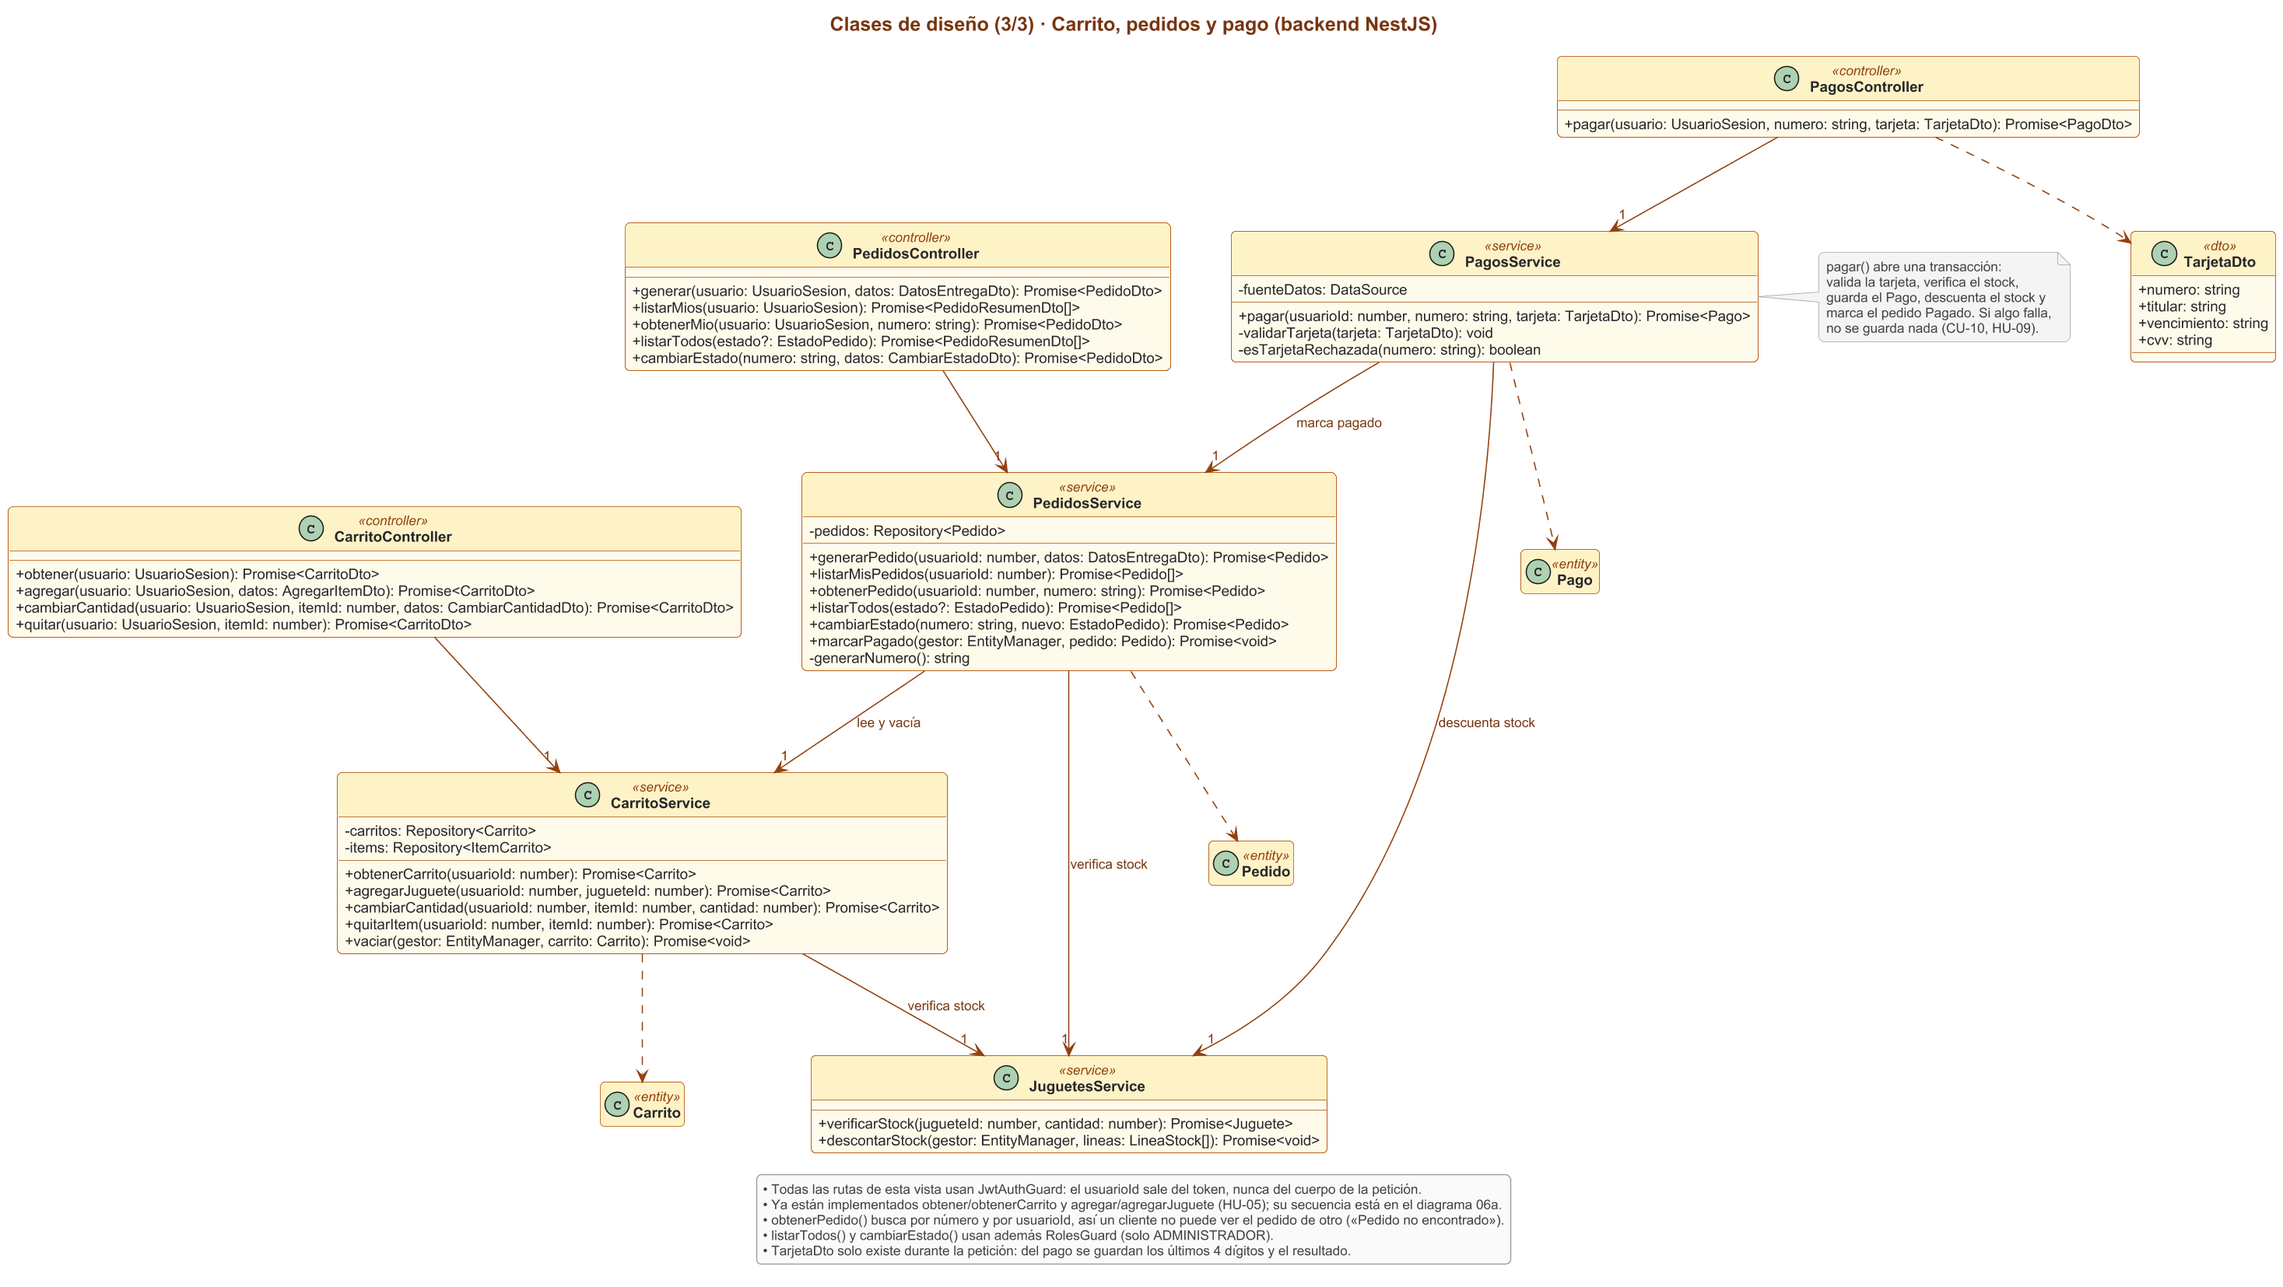
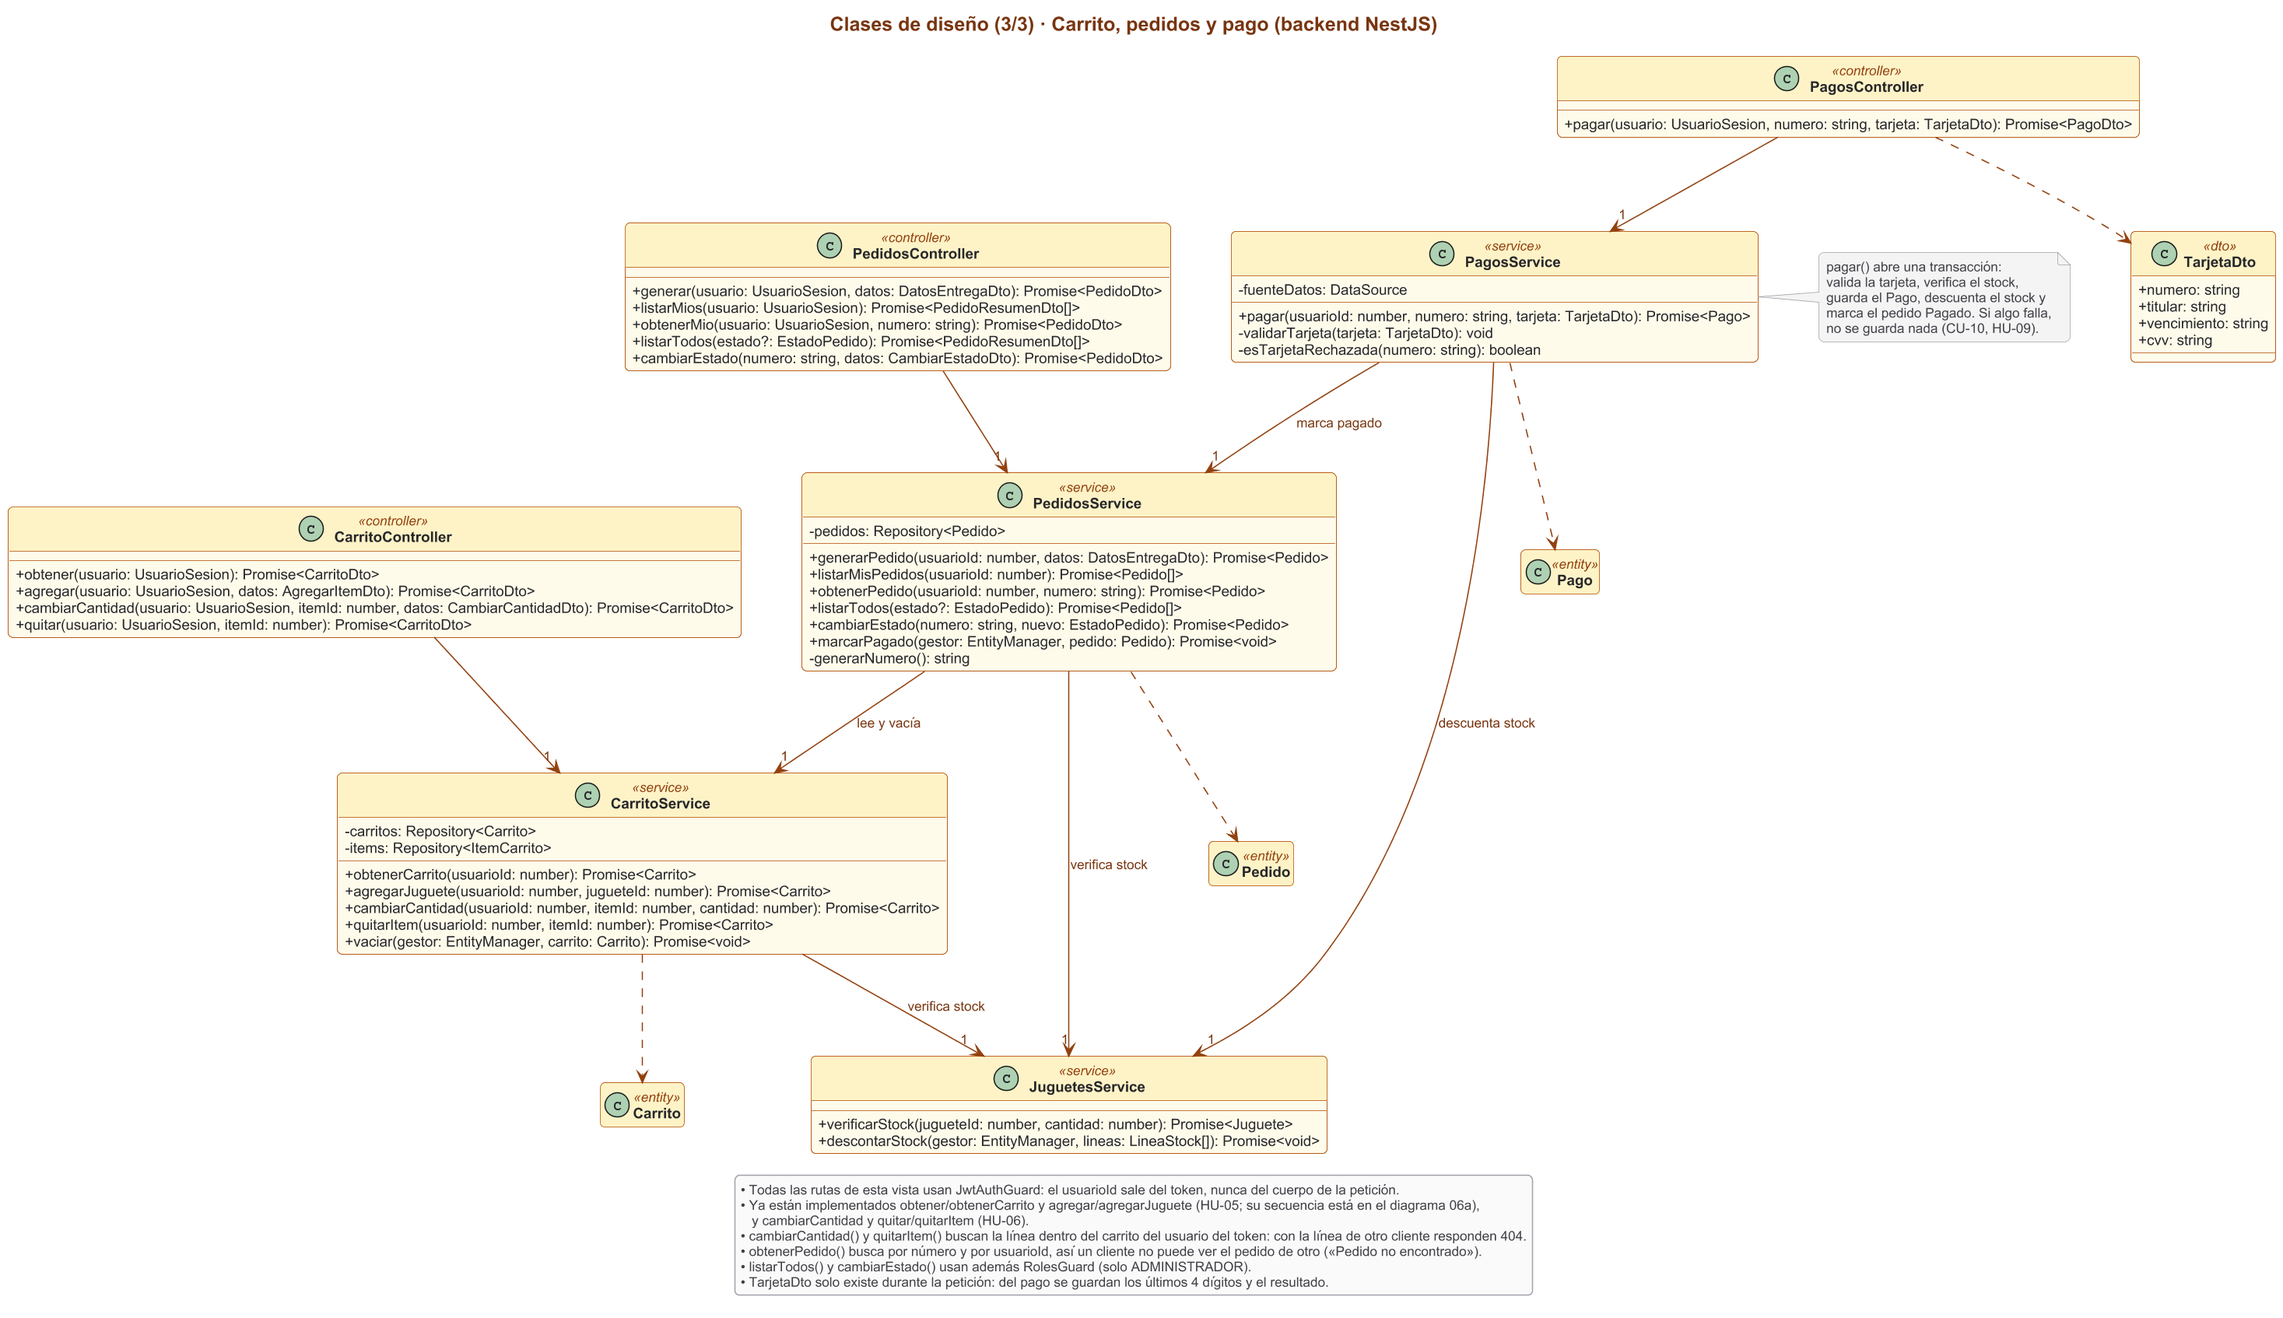
ETF-13 agrega cambiar la cantidad y quitar juguetes del carrito en la API
- PATCH /carrito/items/:itemId guarda la nueva cantidad: 400 si no es un
  entero de 1 o más y 409 «Solo quedan N unidades» si supera el stock
  (lo verifica JuguetesService.verificarStock, IInventario).
- DELETE /carrito/items/:itemId quita la línea y devuelve el carrito.
- La línea se busca dentro del carrito del usuario del token: la de otro
  cliente responde 404 «Este juguete ya no está en tu carrito».
- Diagramas 04c y 05b y README de UML con las operaciones implementadas.

diff --git a/backend/src/carrito/carrito.service.spec.ts b/backend/src/carrito/carrito.service.spec.ts
@@ -1,4 +1,4 @@
-import { ConflictException } from '@nestjs/common';
+import { ConflictException, NotFoundException } from '@nestjs/common';
 import { Test, type TestingModule } from '@nestjs/testing';
 import { getRepositoryToken } from '@nestjs/typeorm';
 import type { Juguete } from '../juguetes/entities/juguete.entity.js';
@@ -64,7 +64,7 @@ describe('CarritoService', () => {
     findOneOrFail: vi.fn(),
     insert: vi.fn(),
   };
-  const items = { insert: vi.fn(), update: vi.fn() };
+  const items = { insert: vi.fn(), update: vi.fn(), delete: vi.fn() };
   const juguetesService = { verificarStock: vi.fn() };
 
   beforeEach(async () => {
@@ -94,6 +94,10 @@ describe('CarritoService', () => {
           return Promise.resolve();
         },
       );
+    items.delete.mockReset().mockImplementation((donde: { id: number }) => {
+      bd.lineas = bd.lineas.filter((linea) => linea.id !== donde.id);
+      return Promise.resolve();
+    });
     juguetesService.verificarStock.mockReset().mockResolvedValue({});
 
     const modulo: TestingModule = await Test.createTestingModule({
@@ -192,6 +196,89 @@ describe('CarritoService', () => {
     const carrito = await servicio.obtenerCarrito(CLIENTE);
 
     expect(carrito.id).toBe(3);
+  });
+
+  describe('cambiarCantidad (HU-06)', () => {
+    beforeEach(() => {
+      bd.crearCarrito();
+      bd.agregarLinea(ABACO.id, 2); // línea 100
+      bd.agregarLinea(AJEDREZ.id, 1); // línea 101
+    });
+
+    it('guarda la nueva cantidad después de verificar el stock', async () => {
+      const carrito = await servicio.cambiarCantidad(CLIENTE, 100, 4);
+
+      expect(juguetesService.verificarStock).toHaveBeenCalledWith(ABACO.id, 4);
+      expect(items.update).toHaveBeenCalledWith({ id: 100 }, { cantidad: 4 });
+      expect(carrito.buscarItem(ABACO.id)?.cantidad).toBe(4);
+      expect(carrito.buscarItem(AJEDREZ.id)?.cantidad).toBe(1);
+    });
+
+    it('también guarda una cantidad menor', async () => {
+      const carrito = await servicio.cambiarCantidad(CLIENTE, 100, 1);
+
+      expect(carrito.buscarItem(ABACO.id)?.cantidad).toBe(1);
+    });
+
+    it('si la cantidad supera el stock, responde 409 y la línea no cambia', async () => {
+      juguetesService.verificarStock.mockRejectedValue(
+        new ConflictException({
+          statusCode: 409,
+          message: 'Solo quedan 2 unidades',
+          stock: 2,
+        }),
+      );
+
+      const intento = servicio.cambiarCantidad(CLIENTE, 101, 3);
+
+      await expect(intento).rejects.toThrow('Solo quedan 2 unidades');
+      expect(juguetesService.verificarStock).toHaveBeenCalledWith(
+        AJEDREZ.id,
+        3,
+      );
+      expect(items.update).not.toHaveBeenCalled();
+      expect(bd.lineas[1].cantidad).toBe(1);
+    });
+
+    it('si la línea no está en el carrito del cliente, responde 404 «Este juguete ya no está en tu carrito»', async () => {
+      const intento = servicio.cambiarCantidad(CLIENTE, 555, 2);
+
+      await expect(intento).rejects.toBeInstanceOf(NotFoundException);
+      await expect(intento).rejects.toThrow(
+        'Este juguete ya no está en tu carrito',
+      );
+      expect(juguetesService.verificarStock).not.toHaveBeenCalled();
+      expect(items.update).not.toHaveBeenCalled();
+    });
+  });
+
+  describe('quitarItem (HU-06)', () => {
+    beforeEach(() => {
+      bd.crearCarrito();
+      bd.agregarLinea(ABACO.id, 2); // línea 100
+      bd.agregarLinea(AJEDREZ.id, 1); // línea 101
+    });
+
+    it('quita la línea y devuelve el carrito sin ella', async () => {
+      const carrito = await servicio.quitarItem(CLIENTE, 100);
+
+      expect(items.delete).toHaveBeenCalledWith({ id: 100 });
+      expect(carrito.items.map((item) => item.jugueteId)).toEqual([AJEDREZ.id]);
+    });
+
+    it('al quitar la última línea, el carrito queda vacío', async () => {
+      await servicio.quitarItem(CLIENTE, 100);
+      const carrito = await servicio.quitarItem(CLIENTE, 101);
+
+      expect(carrito.items).toEqual([]);
+    });
+
+    it('si la línea ya no está (por ejemplo, otro clic la quitó), responde 404 y no borra nada', async () => {
+      await expect(servicio.quitarItem(CLIENTE, 555)).rejects.toBeInstanceOf(
+        NotFoundException,
+      );
+      expect(items.delete).not.toHaveBeenCalled();
+    });
   });
 
   it('no oculta los demás errores de la base de datos', async () => {

diff --git a/backend/src/carrito/carrito.service.ts b/backend/src/carrito/carrito.service.ts
@@ -1,4 +1,4 @@
-import { Injectable } from '@nestjs/common';
+import { Injectable, NotFoundException } from '@nestjs/common';
 import { InjectRepository } from '@nestjs/typeorm';
 import type { FindOneOptions, Repository } from 'typeorm';
 import { esViolacionUnica } from '../database/errores.js';
@@ -11,6 +11,8 @@ const CON_ITEMS: Omit<FindOneOptions<Carrito>, 'where'> = {
   relations: { items: { juguete: true } },
   order: { items: { id: 'ASC' } },
 };
+
+export const LINEA_NO_ENCONTRADA = 'Este juguete ya no está en tu carrito';
 
 @Injectable()
 export class CarritoService {
@@ -61,6 +63,47 @@ export class CarritoService {
       await this.items.insert({ carritoId: carrito.id, jugueteId, cantidad });
     }
     return this.obtenerCarrito(usuarioId);
+  }
+
+  /**
+   * Cambia la cantidad de una línea del carrito (HU-06). La cantidad ya llega validada
+   * (entero de 1 o más); aquí IInventario verifica que no supere el stock: si no alcanza,
+   * responde 409 «Solo quedan N unidades» y la línea no cambia.
+   */
+  async cambiarCantidad(
+    usuarioId: number,
+    itemId: number,
+    cantidad: number,
+  ): Promise<Carrito> {
+    const item = await this.buscarLinea(usuarioId, itemId);
+    await this.juguetesService.verificarStock(item.jugueteId, cantidad);
+    await this.items.update({ id: item.id }, { cantidad });
+    return this.obtenerCarrito(usuarioId);
+  }
+
+  /** Quita una línea del carrito (HU-06) y devuelve el carrito sin ella. */
+  async quitarItem(usuarioId: number, itemId: number): Promise<Carrito> {
+    const item = await this.buscarLinea(usuarioId, itemId);
+    await this.items.delete({ id: item.id });
+    return this.obtenerCarrito(usuarioId);
+  }
+
+  /**
+   * La línea se busca dentro del carrito del cliente del token: así nadie puede cambiar
+   * ni quitar una línea del carrito de otra persona. Si no está, responde 404.
+   */
+  private async buscarLinea(
+    usuarioId: number,
+    itemId: number,
+  ): Promise<ItemCarrito> {
+    const carrito = await this.obtenerCarrito(usuarioId);
+    const item = carrito.items.find((linea) => linea.id === itemId);
+    if (!item)
+      throw new NotFoundException({
+        statusCode: 404,
+        message: LINEA_NO_ENCONTRADA,
+      });
+    return item;
   }
 
   private buscar(usuarioId: number): Promise<Carrito | null> {

diff --git a/backend/src/carrito/carrito.controller.ts b/backend/src/carrito/carrito.controller.ts
@@ -1,9 +1,14 @@
 import {
   Body,
   Controller,
+  Delete,
   Get,
   HttpCode,
   HttpStatus,
+  NotFoundException,
+  Param,
+  ParseIntPipe,
+  Patch,
   Post,
   UseGuards,
 } from '@nestjs/common';
@@ -11,8 +16,15 @@ import { JwtAuthGuard } from '../auth/jwt-auth.guard.js';
 import type { UsuarioSesion } from '../auth/sesion.js';
 import { UsuarioActual } from '../auth/usuario-actual.decorator.js';
 import { aCarritoDto, type CarritoDto } from './carrito-dto.js';
-import { CarritoService } from './carrito.service.js';
+import { CarritoService, LINEA_NO_ENCONTRADA } from './carrito.service.js';
 import { AgregarItemDto } from './dto/agregar-item.dto.js';
+import { CambiarCantidadDto } from './dto/cambiar-cantidad.dto.js';
+
+/** Un id de línea que no es número tampoco puede estar en el carrito: 404, igual que uno que no existe. */
+const ID_DE_LINEA = new ParseIntPipe({
+  exceptionFactory: () =>
+    new NotFoundException({ statusCode: 404, message: LINEA_NO_ENCONTRADA }),
+});
 
 /**
  * Carrito del cliente con sesión iniciada. Todas las rutas usan JwtAuthGuard:
@@ -41,6 +53,37 @@ export class CarritoController {
   ): Promise<CarritoDto> {
     return aCarritoDto(
       await this.carritoService.agregarJuguete(usuario.id, datos.jugueteId),
+    );
+  }
+
+  /**
+   * Cambia la cantidad de una línea (HU-06). Responde 200 con el carrito actualizado,
+   * 400 si la cantidad no es un entero de 1 o más, 404 si la línea no está en el carrito
+   * del cliente y 409 «Solo quedan N unidades» si supera el stock.
+   */
+  @Patch('items/:itemId')
+  async cambiarCantidad(
+    @UsuarioActual() usuario: UsuarioSesion,
+    @Param('itemId', ID_DE_LINEA) itemId: number,
+    @Body() datos: CambiarCantidadDto,
+  ): Promise<CarritoDto> {
+    return aCarritoDto(
+      await this.carritoService.cambiarCantidad(
+        usuario.id,
+        itemId,
+        datos.cantidad,
+      ),
+    );
+  }
+
+  /** Quita una línea (HU-06). Responde 200 con el carrito sin ella, o 404 si no estaba. */
+  @Delete('items/:itemId')
+  async quitar(
+    @UsuarioActual() usuario: UsuarioSesion,
+    @Param('itemId', ID_DE_LINEA) itemId: number,
+  ): Promise<CarritoDto> {
+    return aCarritoDto(
+      await this.carritoService.quitarItem(usuario.id, itemId),
     );
   }
 }

diff --git a/backend/src/carrito/dto/cambiar-cantidad.dto.spec.ts b/backend/src/carrito/dto/cambiar-cantidad.dto.spec.ts
@@ -1,0 +1,41 @@
+import { BadRequestException } from '@nestjs/common';
+import { crearPipeValidacion } from '../../config/pipe-validacion.js';
+import { CambiarCantidadDto } from './cambiar-cantidad.dto.js';
+
+/** Pasa el cuerpo por el mismo pipe de validación que usa la API. */
+async function validar(cuerpo: unknown): Promise<CambiarCantidadDto> {
+  return (await crearPipeValidacion().transform(cuerpo, {
+    type: 'body',
+    metatype: CambiarCantidadDto,
+  })) as CambiarCantidadDto;
+}
+
+describe('CambiarCantidadDto', () => {
+  it('acepta una cantidad entera y descarta los demás campos', async () => {
+    await expect(
+      validar({ cantidad: 3, jugueteId: 99, precio: 0.1 }),
+    ).resolves.toEqual({ cantidad: 3 });
+  });
+
+  it.each([
+    ['sin cantidad', {}],
+    ['con un texto', { cantidad: 'tres' }],
+    ['con un decimal', { cantidad: 1.5 }],
+    ['con cero', { cantidad: 0 }],
+    ['con un número negativo', { cantidad: -2 }],
+  ])(
+    'responde 400 «La cantidad debe ser un número entero de 1 o más» %s',
+    async (_caso, cuerpo) => {
+      const intento = validar(cuerpo);
+
+      await expect(intento).rejects.toBeInstanceOf(BadRequestException);
+      await expect(intento).rejects.toMatchObject({
+        response: {
+          errores: {
+            cantidad: 'La cantidad debe ser un número entero de 1 o más',
+          },
+        },
+      });
+    },
+  );
+});

diff --git a/backend/src/carrito/dto/cambiar-cantidad.dto.ts b/backend/src/carrito/dto/cambiar-cantidad.dto.ts
@@ -1,0 +1,13 @@
+import { IsInt, Min } from 'class-validator';
+
+const CANTIDAD_VALIDA = 'La cantidad debe ser un número entero de 1 o más';
+
+/**
+ * Cuerpo de PATCH /carrito/items/:itemId (HU-06, CU-08 Gestionar carrito).
+ * Aquí solo se valida el mínimo: el máximo es el stock, y lo verifica IInventario.
+ */
+export class CambiarCantidadDto {
+  @IsInt({ message: CANTIDAD_VALIDA })
+  @Min(1, { message: CANTIDAD_VALIDA })
+  cantidad: number;
+}

diff --git a/docs/uml/README.md b/docs/uml/README.md
@@ -60,7 +60,7 @@ Se dividen en tres vistas para que cada una se lea bien. **B** = frontera (panta
 |---|---|---|---|---|
 | Catálogo | CU-01, CU-02, CU-03 | ControlCatalogo | `backend/src/juguetes` (hecho), `categorias` | `/`, `/juguetes/[id]` (hechas) |
 | Usuarios | CU-04, CU-05, CU-06 | ControlCuentas | `backend/src/usuarios`, `auth` (registro, inicio de sesión y `JwtAuthGuard` hechos) | `/registro`, `/iniciar-sesion` (hechas) |
-| Carrito | CU-07, CU-08 | ControlCarrito | `backend/src/carrito` (agregar hecho) | botón «Agregar al carrito» y contador (hechos), `/carrito` |
+| Carrito | CU-07, CU-08 | ControlCarrito | `backend/src/carrito` (agregar, cambiar cantidad y quitar hechos) | botón «Agregar al carrito», contador y `/carrito` (hechos) |
 | Pedidos | CU-09, CU-11 | ControlPedidos | `backend/src/pedidos` | `/checkout`, `/mis-pedidos` |
 | Pagos | CU-10 | ControlPago | `backend/src/pagos` | `/pago/[numero]` |
 | Administración | CU-12 … CU-15 | ControlAdminCatalogo, ControlAdminPedidos | rutas protegidas para el rol ADMINISTRADOR en `juguetes`, `categorias` y `pedidos` | `/admin/...` |
@@ -79,7 +79,7 @@ Tres vistas: el modelo de dominio (entidades de TypeORM) y los controllers y ser
 - **Controller + service.** Cada módulo de NestJS tiene un controller, que expone las rutas HTTP, y un service, que aplica las reglas del negocio usando el `Repository` de TypeORM.
 - **Seguridad.** `JwtAuthGuard` identifica al usuario a partir del JWT, y `RolesGuard` deja pasar solo al rol ADMINISTRADOR. El `usuarioId` siempre sale del token, nunca del cuerpo de la petición.
 - **Pago en una transacción.** `PagosService.pagar()` valida la tarjeta, verifica el stock, guarda el `Pago`, descuenta el stock y marca el pedido como Pagado en una sola transacción.
-- **Ya implementado.** `JuguetesController` y `JuguetesService` con `listarCatalogo` y `obtenerDetalle` (HU-01, HU-02); `AuthController`, `AuthService` y `UsuariosService` con `registrar` (HU-03) e `iniciarSesion` (HU-04); `JwtAuthGuard`, `AuthService.verificarToken`, `JuguetesService.verificarStock` y `CarritoController`/`CarritoService` con `obtener` y `agregar` (HU-05). El resto de nombres guía las próximas historias.
+- **Ya implementado.** `JuguetesController` y `JuguetesService` con `listarCatalogo` y `obtenerDetalle` (HU-01, HU-02); `AuthController`, `AuthService` y `UsuariosService` con `registrar` (HU-03) e `iniciarSesion` (HU-04); `JwtAuthGuard`, `AuthService.verificarToken`, `JuguetesService.verificarStock` y `CarritoController`/`CarritoService` con `obtener` y `agregar` (HU-05), y con `cambiarCantidad` y `quitar`/`quitarItem` (HU-06). El resto de nombres guía las próximas historias.
 - **El hash no sale de la base de datos.** La columna `contrasena_hash` tiene `select: false`: solo `UsuariosService.buscarConContrasena` la lee, y solo para el inicio de sesión.
 
 ## 5. Subsistemas con interfaces

diff --git a/backend/README.md b/backend/README.md
@@ -68,3 +68,5 @@ En el plan gratuito, el servicio se suspende tras 15 minutos sin visitas; la pri
 | `POST /auth/inicio-sesion` | Inicia sesión con `correo` y `contrasena`. Responde 200 con `{ token, usuario }`, 400 con `errores` por campo si falta un dato, o 401 «Correo o contraseña incorrectos», el mismo mensaje si el correo no existe o si la contraseña no coincide |
 | `GET /carrito` | Carrito del cliente con sesión iniciada (cabecera `Authorization: Bearer <token>`): `items` con precio, cantidad y subtotal, `unidades` y `total`. Si todavía no tiene carrito, lo crea vacío. Responde 401 «Inicia sesión para continuar» sin un token válido |
 | `POST /carrito/items` | Agrega una unidad del juguete `jugueteId` al carrito; si ya estaba, suma 1 a su línea. Responde 200 con el carrito, 400 si falta el juguete, 401 sin sesión, 404 «Juguete no encontrado» o 409 «Solo quedan N unidades» si no hay stock |
+| `PATCH /carrito/items/:itemId` | Cambia la cantidad de una línea del carrito con `{ cantidad }`. Responde 200 con el carrito, 400 «La cantidad debe ser un número entero de 1 o más», 401 sin sesión, 404 «Este juguete ya no está en tu carrito» si la línea no es del carrito del cliente, o 409 «Solo quedan N unidades» si supera el stock |
+| `DELETE /carrito/items/:itemId` | Quita una línea del carrito. Responde 200 con el carrito sin ella, 401 sin sesión o 404 «Este juguete ya no está en tu carrito» |
